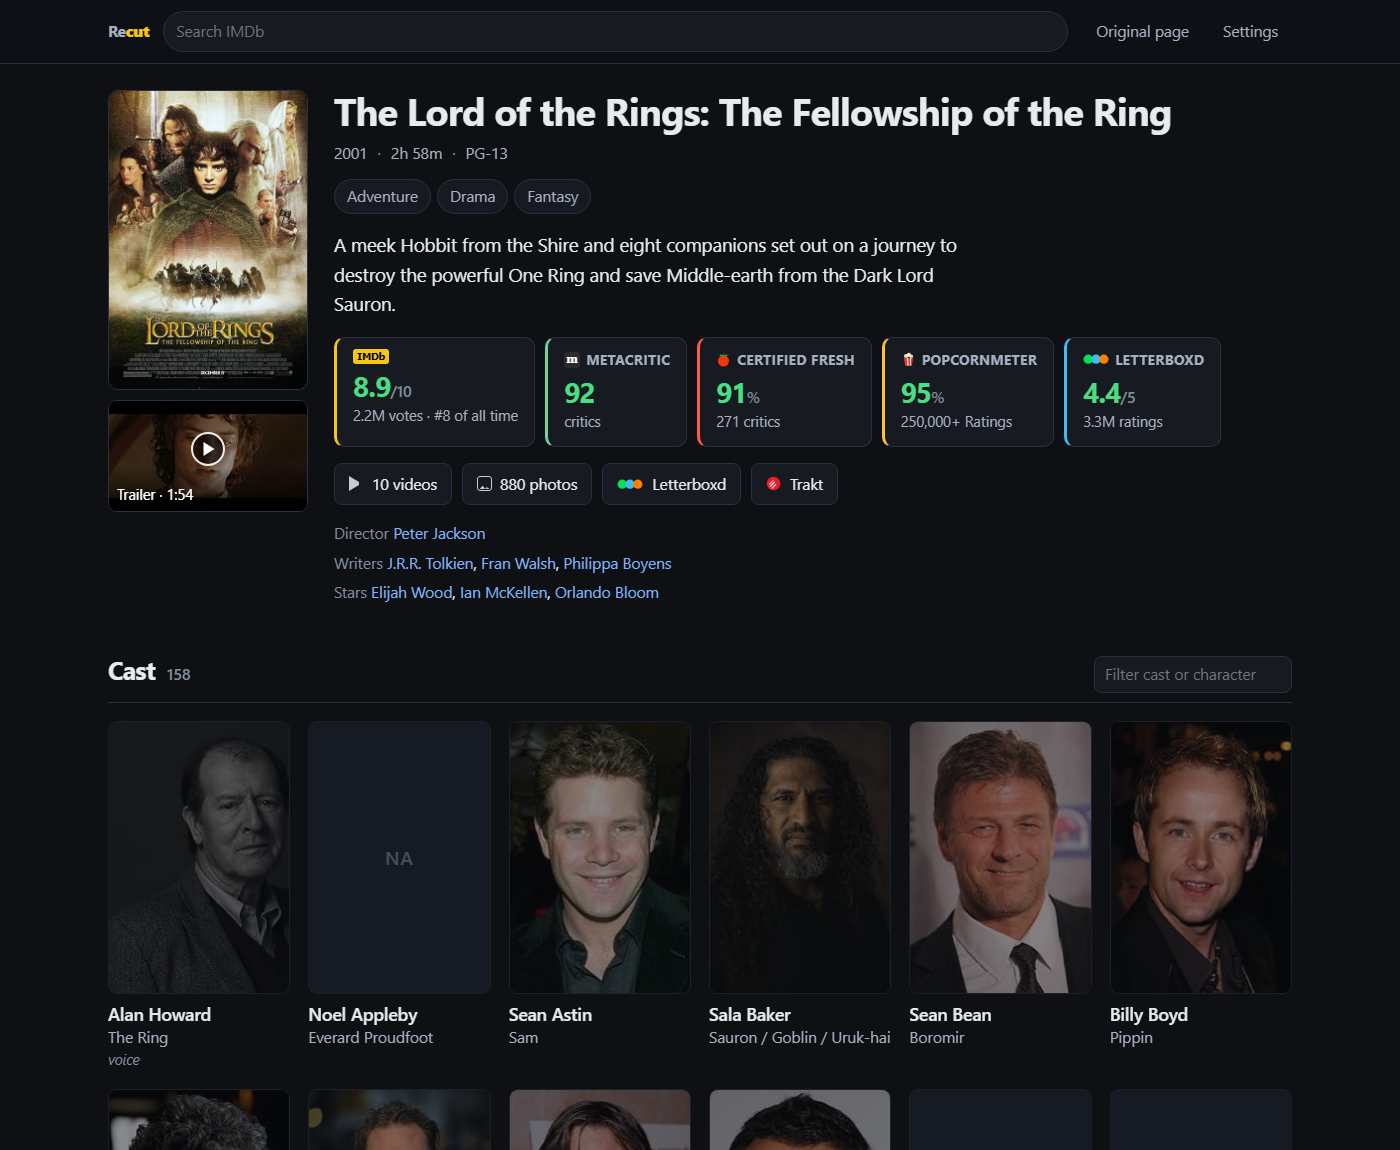
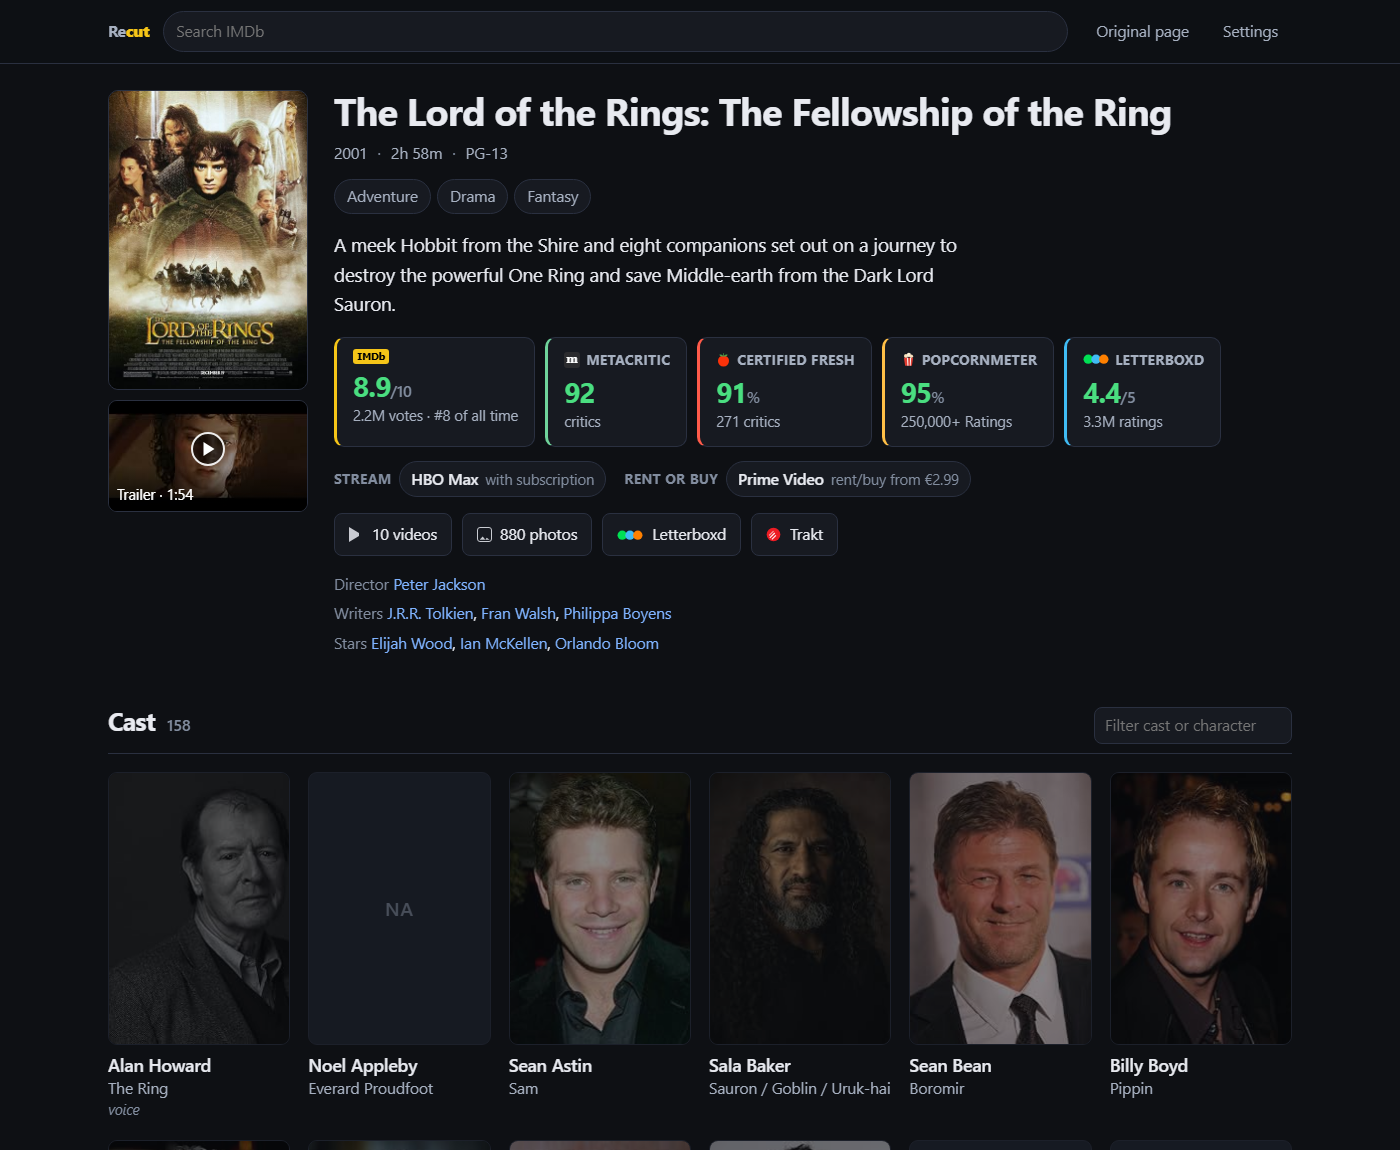
Where to watch, non-English IMDb, and an update path
Three things needed before handing this to other people.

@downloadURL and @updateURL were absent, so anyone installing from GitHub would
never have received an update. Added, along with @license, @icon, @homepageURL
and @supportURL.

IMDb serves language-prefixed paths to non-English users (/de/title/..., which
carries the same payload). routeFor matched none of them, so the script did
nothing at all for those users. The prefix is now recognised and re-applied to
every link the script builds, so they stay in their own language.

Where to watch comes from IMDb's own watchOptionsByCategory rather than a third
party: no API key, no attribution, and because the request is made from the
user's browser IMDb geolocates it to their country and prices it in their
currency. It is a setting, and never disk-cached, since a cached answer would be
wrong the moment the user travelled.

diff --git a/recut.user.js b/recut.user.js
@@ -1,9 +1,15 @@
 // ==UserScript==
 // @name         Recut for IMDb
 // @namespace    https://github.com/MohsenBlur/imdb-recut
-// @version      2.6.0
+// @version      2.7.0
 // @description  Replaces IMDb pages with a dense, quiet layout: cast, user reviews (with Rotten Tomatoes critic + audience scores), season/episode counts and recommendations for titles; known-for and a full filmography with the characters played for people. Everything else is gone.
 // @author       MohsenBlur
+// @license      MIT
+// @homepageURL  https://github.com/MohsenBlur/imdb-recut
+// @supportURL   https://github.com/MohsenBlur/imdb-recut/issues
+// @downloadURL  https://github.com/MohsenBlur/imdb-recut/raw/main/recut.user.js
+// @updateURL    https://github.com/MohsenBlur/imdb-recut/raw/main/recut.user.js
+// @icon         https://www.google.com/s2/favicons?sz=64&domain=imdb.com
 // @match        https://www.imdb.com/*
 // @match        https://imdb.com/*
 // @match        https://m.imdb.com/*
@@ -39,7 +45,22 @@
    * (/fullcredits, /reviews, /episodes, /bio ...) are left completely alone so
    * there is always an untouched IMDb one click away.
    */
-  function routeFor(pathname, search) {
+  // IMDb prefixes paths with a language code for non-English users
+  // (/de/title/tt…, /es/name/nm…). No IMDb route is two letters long, so this
+  // is unambiguous. The prefix is remembered and put back on every link the
+  // script builds, so the user stays in their own language.
+  let pageLocale = '';
+
+  function splitLocale(pathname) {
+    const m = /^\/([a-z]{2}(?:-[a-z]{2})?)(?=\/)/.exec(pathname || '');
+    if (!m) return { locale: '', path: pathname || '' };
+    return { locale: '/' + m[1], path: pathname.slice(m[0].length) };
+  }
+
+  function routeFor(fullPath, search) {
+    const split = splitLocale(fullPath);
+    const pathname = split.path;
+    pageLocale = split.locale;
     let m = /^\/title\/(tt\d+)\/?$/.exec(pathname);
     if (m) return { kind: 'title', id: m[1] };
     m = /^\/name\/(nm\d+)\/?$/.exec(pathname);
@@ -86,6 +107,7 @@
     fullCredits: { def: true, label: 'Load the complete filmography' },
     hideSelfCredits: { def: true, label: 'Hide "Self" and archive-footage credits by default' },
     declineCookies: { def: true, label: 'Hide and decline the cookie banner' },
+    watchOptions: { def: true, label: 'Show where to watch' },
     trailers: { def: true, label: 'Show trailers and videos' },
     photos: { def: true, label: 'Show photos' },
     reviewCount: { def: 10, label: 'User reviews per page' }
@@ -132,7 +154,7 @@
     if (!u) return '';
     const s = String(u).trim();
     if (/^https?:\/\//i.test(s)) return s;
-    if (/^\/(?!\/)/.test(s)) return 'https://www.imdb.com' + s;
+    if (/^\/(?!\/)/.test(s)) return 'https://www.imdb.com' + s;   // already absolute-path
     return '';
   }
 
@@ -262,8 +284,9 @@
     return w > 0 && h > 0 ? { width: w, height: h } : null;
   }
 
-  const titleUrl = (id) => `https://www.imdb.com/title/${encodeURIComponent(id)}/`;
-  const nameUrl = (id) => `https://www.imdb.com/name/${encodeURIComponent(id)}/`;
+  const imdbUrl = (path) => `https://www.imdb.com${pageLocale}${path}`;
+  const titleUrl = (id) => imdbUrl(`/title/${encodeURIComponent(id)}/`);
+  const nameUrl = (id) => imdbUrl(`/name/${encodeURIComponent(id)}/`);
 
   // ══════════════════════════════════════════════════════════════════════════
   // 4. Network — everything external goes through GM_xmlhttpRequest so page CSP
@@ -490,9 +513,7 @@
   async function fetchPageProps(route) {
     const url = route.kind === 'search' ? findUrl(route.query, route.section)
       : route.sub ? titleUrl(route.id) + route.sub + '/' + (route.season ? '?season=' + encodeURIComponent(route.season) : '')
-      : route.kind === 'chart' ? 'https://www.imdb.com/chart/' + encodeURIComponent(route.id) + '/'
-      : route.kind === 'list' ? 'https://www.imdb.com/list/' + encodeURIComponent(route.id) + '/'
-      : route.kind === 'titleSearch' ? 'https://www.imdb.com/search/title/' + (route.query || '')
+      : (route.kind === 'chart' || route.kind === 'list' || route.kind === 'titleSearch') ? listPageUrl(route)
       : route.kind === 'title' ? titleUrl(route.id) : nameUrl(route.id);
     const text = await netGet(url, { headers: { Accept: 'text/html' } });
     const doc = new DOMParser().parseFromString(text, 'text/html');
@@ -1212,6 +1233,7 @@
   // a real id — no guessed slug, and no search-page fallback, because Cloudflare
   // blocks automated checks and an unverified fallback would be a guess.
   const TRAKT_UNSUPPORTED = /^(videoGame|podcastSeries|podcastEpisode|musicVideo)$/;
+  const WATCH_UNSUPPORTED = /^(videoGame|podcastSeries|podcastEpisode)$/;
 
   async function traktUrl(imdbId, typeId) {
     if (TRAKT_UNSUPPORTED.test(typeId || '')) return null;
@@ -1624,6 +1646,23 @@ a.imdbc-score:hover { border-color: var(--brand, var(--imdbc-border)); text-deco
 .imdbc-ext { display: inline-flex; align-items: center; gap: 9px; padding: 8px 14px; }
 .imdbc-ext .mk-lbx { width: 26px; height: 10.4px; }
 
+/* ── where to watch ────────────────────────────────────────────────────── */
+.imdbc-watchrow:empty { display: none; }
+.imdbc-watchrow { display: flex; flex-wrap: wrap; gap: 8px 18px; margin: 14px 0 0; align-items: center; }
+.imdbc-watch-group { display: inline-flex; align-items: center; gap: 8px; flex-wrap: wrap; }
+.imdbc-watch-group .k {
+  font-size: var(--fs-micro); letter-spacing: .04em; text-transform: uppercase;
+  color: var(--imdbc-faint); font-weight: 650;
+}
+.imdbc-watch {
+  display: inline-flex; align-items: baseline; gap: 7px; padding: 5px 11px;
+  border: 1px solid var(--imdbc-border); border-radius: 999px; background: var(--imdbc-panel);
+  font-size: var(--fs-small);
+}
+.imdbc-watch:hover { background: var(--imdbc-panel-2); text-decoration: none; border-color: var(--imdbc-muted); }
+.imdbc-watch b { font-weight: 600; }
+.imdbc-watch small { color: var(--imdbc-faint); font-size: var(--fs-tiny); }
+
 /* ── media chips and the panel they open ───────────────────────────────── */
 .imdbc-media-btns { display: inline-flex; gap: 8px; flex-wrap: wrap; }
 .imdbc-tpreview {
@@ -1988,7 +2027,7 @@ a.imdbc-score:hover { border-color: var(--brand, var(--imdbc-border)); text-deco
       <div class="imdbc-bar">
         <div class="imdbc-bar-in">
           <div class="imdbc-brand"><a href="https://www.imdb.com/">Re<b>cut</b></a></div>
-          <form action="https://www.imdb.com/find/" method="get" role="search" autocomplete="off">
+          <form action="${imdbUrl('/find/')}" method="get" role="search" autocomplete="off">
             <div class="imdbc-search">
               <input type="search" name="q" placeholder="Search IMDb" aria-label="Search IMDb"
                      autocomplete="off" spellcheck="false" value="${prefill || ''}"
@@ -2106,7 +2145,7 @@ a.imdbc-score:hover { border-color: var(--brand, var(--imdbc-border)); text-deco
   // 12b. Search results
   // ══════════════════════════════════════════════════════════════════════════
 
-  const findUrl = (q, section) => 'https://www.imdb.com/find/?q=' + encodeURIComponent(q)
+  const findUrl = (q, section) => imdbUrl('/find/') + '?q=' + encodeURIComponent(q)
     + (section ? '&s=' + encodeURIComponent(section) : '');
 
   /**
@@ -2643,9 +2682,9 @@ a.imdbc-score:hover { border-color: var(--brand, var(--imdbc-border)); text-deco
   }
 
   function listPageUrl(route) {
-    if (route.kind === 'chart') return 'https://www.imdb.com/chart/' + encodeURIComponent(route.id) + '/';
-    if (route.kind === 'list') return 'https://www.imdb.com/list/' + encodeURIComponent(route.id) + '/';
-    return 'https://www.imdb.com/search/title/' + (route.query || '');
+    if (route.kind === 'chart') return imdbUrl('/chart/' + encodeURIComponent(route.id) + '/');
+    if (route.kind === 'list') return imdbUrl('/list/' + encodeURIComponent(route.id) + '/');
+    return imdbUrl('/search/title/') + (route.query || '');
   }
 
   // ══════════════════════════════════════════════════════════════════════════
@@ -2738,6 +2777,67 @@ a.imdbc-score:hover { border-color: var(--brand, var(--imdbc-border)); text-deco
    * lightbox without ever occupying page space.
    */
   /** The preview tucks under the poster, using space that was otherwise dead. */
+  // ── Where to watch ────────────────────────────────────────────────────────
+  // IMDb's own watch options, which means no third-party service, no API key
+  // and no attribution requirement. IMDb geolocates from the caller's IP, and
+  // the call is made from the user's browser, so the providers and the prices
+  // are already the user's own country and currency. That also means the result
+  // must never be written to the disk cache: it would be wrong the moment the
+  // user travelled or switched a VPN on.
+  const WATCH_CATEGORY_LABEL = { STREAMING: 'Stream', 'RENT/BUY': 'Rent or buy', FREE: 'Free', THEATER: 'In cinemas' };
+
+  function fetchWatchOptions(titleId) {
+    return memoize('watch:' + titleId, 30 * 60 * 1000, async () => {
+      const data = await gql(`{ title(id: ${gqlStr(titleId)}) {
+        watchOptionsByCategory(limit: 12) {
+          categorizedWatchOptionsList {
+            categoryName { value }
+            watchOptions { provider { id name { value } } description { value } link(platform: WEB) }
+          }
+        }
+      } }`);
+      const list = (data && data.title && data.title.watchOptionsByCategory
+        && data.title.watchOptionsByCategory.categorizedWatchOptionsList) || [];
+      return list.map((c) => ({
+        category: (c.categoryName && c.categoryName.value) || '',
+        options: (c.watchOptions || []).map((o) => ({
+          name: (o.provider && o.provider.name && o.provider.name.value) || '',
+          note: (o.description && o.description.value) || '',
+          link: o.link || ''
+        })).filter((o) => o.name && o.link)
+      })).filter((c) => c.options.length);
+    });
+  }
+
+  function watchHtml(groups) {
+    if (!groups || !groups.length) return '';
+    return groups.map((g) => interpolate(html`
+      <span class="imdbc-watch-group">
+        <span class="k">${WATCH_CATEGORY_LABEL[g.category] || g.category}</span>
+        ${g.options.map((o) => html`
+          <a class="imdbc-watch" href="${safeUrl(o.link)}" target="_blank" rel="noopener noreferrer"
+             title="${o.name}${o.note ? ' — ' + o.note : ''}">
+            <b>${o.name}</b>${o.note ? html`<small>${o.note}</small>` : ''}
+          </a>`)}
+      </span>`)).join('');
+  }
+
+  async function wireWatchOptions(root, t) {
+    if (!settings.watchOptions) return;
+    const host = root.querySelector('[data-imdbc-watch]');
+    if (!host || WATCH_UNSUPPORTED.test(t.typeId || '')) return;
+    const token = renderSeq;
+    let groups = null;
+    try {
+      groups = await fetchWatchOptions(t.id);
+    } catch (e) {
+      warn('watch options failed', e);
+      return;                       // silence beats an error where nothing was promised
+    }
+    if (token !== renderSeq || !root.isConnected) return;
+    host.innerHTML = watchHtml(groups);
+  }
+
   function trailerPreview(m) {
     if (!(settings.trailers && m.trailer && bestSource(m.trailer))) return '';
     return interpolate(html`
@@ -3022,6 +3122,7 @@ a.imdbc-score:hover { border-color: var(--brand, var(--imdbc-border)); text-deco
             ${t.genres.length ? html`<div class="imdbc-chips">${t.genres.map((g) => html`<span class="imdbc-chip">${g}</span>`)}</div>` : ''}
             ${t.plot ? html`<p class="imdbc-plot">${t.plot}</p>` : ''}
             <div class="imdbc-scores" data-imdbc-scores>${raw(scoreStrip(t))}</div>
+            <div class="imdbc-watchrow" data-imdbc-watch></div>
             <div class="imdbc-actions" data-imdbc-actions>${raw(actionsHtml(t))}</div>
             <div class="imdbc-mediapanel" data-imdbc-mediapanel></div>
             ${crewLines.length ? html`<div class="imdbc-crew">${crewLines}</div>` : ''}
@@ -3072,6 +3173,7 @@ a.imdbc-score:hover { border-color: var(--brand, var(--imdbc-border)); text-deco
 
     wireTopBar(root);
     wireExternalLinks(root, t);
+    wireWatchOptions(root, t);
     wireMedia(root, t);
     wireTitleCast(root, t);
     wireTitleReviews(root, t);
@@ -3796,7 +3898,7 @@ a.imdbc-score:hover { border-color: var(--brand, var(--imdbc-border)); text-deco
           ${SETTING_DEFS.theme.options.map((o) => html`<option value="${o}"${settings.theme === o ? raw(' selected') : ''}>${o}</option>`)}
         </select>
       </div>
-      ${['rottenTomatoes', 'trailers', 'photos', 'fullCast', 'fullCredits', 'hideSelfCredits', 'declineCookies'].map((k) => html`
+      ${['rottenTomatoes', 'watchOptions', 'trailers', 'photos', 'fullCast', 'fullCredits', 'hideSelfCredits', 'declineCookies'].map((k) => html`
         <div class="imdbc-set-row">
           <label for="imdbc-set-${k}">${SETTING_DEFS[k].label}</label>
           <input id="imdbc-set-${k}" type="checkbox" data-set="${k}"${settings[k] ? raw(' checked') : ''}>

diff --git a/README.md b/README.md
@@ -47,7 +47,7 @@ with the character played on every row, category tabs, filtering and sorting.
 
 | Page | What you get |
 | --- | --- |
-| `/title/tt…` | IMDb score, Metascore, Tomatometer, Popcornmeter and Letterboxd in one strip · trailer and video strip · full cast with characters and per-actor episode counts · sortable, paginated user reviews · seasons with per-season episode counts · photos · more-like-this · Letterboxd and Trakt links |
+| `/title/tt…` | IMDb score, Metascore, Tomatometer, Popcornmeter and Letterboxd in one strip · where to watch in your country · trailer and video strip · full cast with characters and per-actor episode counts · sortable, paginated user reviews · seasons with per-season episode counts · photos · more-like-this · Letterboxd and Trakt links |
 | `/name/nm…` | Known-for · the complete filmography with characters, category tabs, filter and sort · videos and photos |
 | `/title/tt…/ratings` | 1–10 histogram and per-country breakdown |
 | `/title/tt…/fullcredits` | Every cast member and crew department |
@@ -60,6 +60,15 @@ Every rating on every page is colour-banded on one scale — **≥8.0 green ·
 7.0–7.9 lime · 6.0–6.9 amber · below 6.0 red** — so a filmography can be skimmed
 without reading numbers. Ratings from fewer than 1,000 votes are dimmed, so an
 obscure 9.8 from 14 votes doesn't outshout a classic.
+
+**Where to watch** comes from IMDb's own watch options, so there is no third
+party, no API key and no attribution requirement - and because the request is
+made from your browser, IMDb geolocates it to *your* country, with prices in
+your currency.
+
+IMDb serves language-prefixed paths for non-English users (`/de/title/…`,
+`/es/name/…`). Those are recognised, and every link the script builds keeps the
+prefix so you stay in your own language.
 
 The cookie consent banner is hidden and **declined** on every IMDb page, not
 just the ones that get rewritten.
@@ -87,8 +96,11 @@ On first use it asks permission to reach `api.graphql.imdb.com`,
 ## Settings
 
 Top bar → **Settings**: theme (auto/dark/light), Rotten Tomatoes lookups,
-trailers, photos, full-cast and full-filmography loading, hiding "Self" and
-archive-footage credits, cookie-banner handling, reviews per page.
+where-to-watch, trailers, photos, full-cast and full-filmography loading, hiding
+"Self" and archive-footage credits, cookie-banner handling, reviews per page.
+
+Everything that puts something on screen has a toggle, so the layout can be cut
+back further than the defaults.
 
 **Original page** in the top bar reveals IMDb's real page instantly, and a
 floating button brings the clean view back. Tampermonkey's menu has the same
@@ -156,6 +168,8 @@ changing a query.
 - IMDb's video playback URLs are signed and expire, so they are held in memory
   for the life of the page and never written to the cache.
 - Signed-in features (your own ratings, watchlist) are not carried over.
+- On a language-prefixed page the layout follows your language, but titles
+  fetched from the API come back in English, so a filmography can mix the two.
 - `/name/*/bio`, `/awards` and `/user/*/ratings` are still IMDb's own pages.
 
 ## Licence
